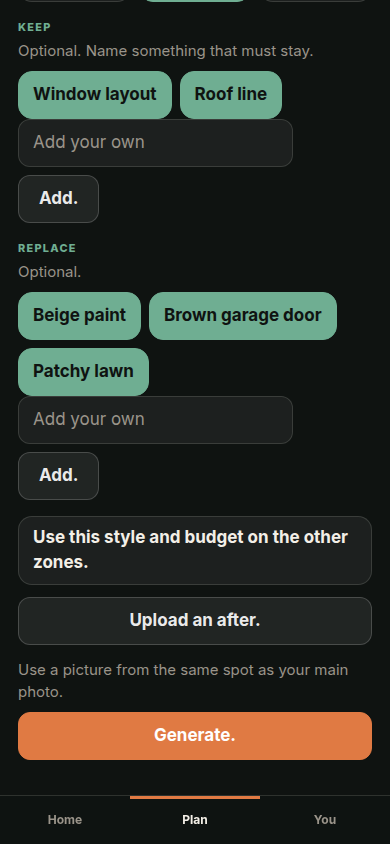
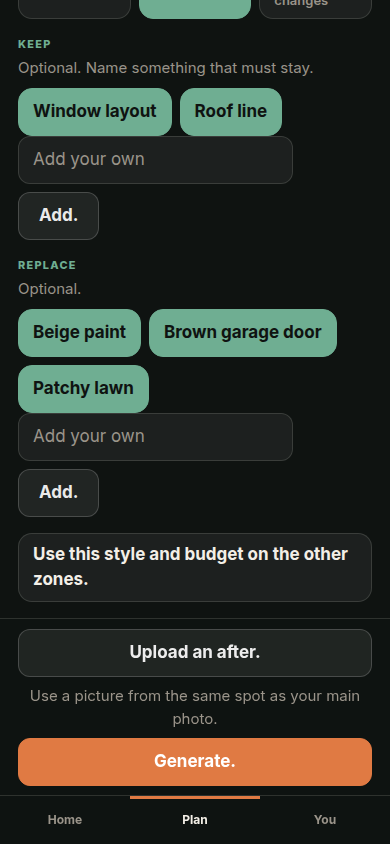
Keep gallery actions and capture's Generate pair clear of the thumb zone.
The gallery stage leaves room above Approve. for the thumbnail strip and Add photos. / Try again., and that block can scroll clear of the sticky bar. Upload an after. and Generate. stay pinned above the tabs on capture.

Changed region(s): [[0.0308, 0.0, 0.8923, 0.7085], [0.0308, 0.7085, 0.9538, 0.955], [0.9231, 0.7085, 0.9538, 0.8009]]

diff --git a/src/pages/Capture.tsx b/src/pages/Capture.tsx
@@ -162,7 +162,7 @@ export default function Capture() {
   const left = triesLeft(currentLink.attempts);
 
   return (
-    <div className="page" {...picker.swipe}>
+    <div className={`page${hasBefore ? " has-capture" : ""}`} {...picker.swipe}>
       <TopBar
         title={zone.name}
         onTitle={() => picker.setOpen(true)}
@@ -403,7 +403,7 @@ export default function Capture() {
       {used ? <p className="meta">{used}</p> : null}
 
       {hasBefore ? (
-        <div className="thumb-paths">
+        <div className="action-bar capture-actions">
           <button className="btn btn-outline btn-wide" type="button" disabled={reading} onClick={() => afterRef.current?.click()}>
             {reading ? copy.reading : copy.uploadAfter}
           </button>

diff --git a/src/index.css b/src/index.css
@@ -99,6 +99,16 @@ h2.eyebrow {
 }
 
 .page.has-skip {
+  /* Clears sticky Approve., Skip this zone., and the nav, and leaves room for the thumbnail strip plus Add photos. / Try again. */
+  padding-bottom: calc(400px + env(safe-area-inset-bottom));
+}
+
+.page.has-skip .photo-stage .slider {
+  aspect-ratio: auto;
+  height: 132px;
+}
+
+.page.has-capture {
   padding-bottom: calc(280px + env(safe-area-inset-bottom));
 }
 
@@ -354,6 +364,11 @@ h3 {
 .quiet-pair .btn {
   flex: 1 1 0;
   min-height: 48px;
+}
+
+.capture-actions .meta {
+  margin: 0;
+  text-align: center;
 }
 
 .zone-tile {
